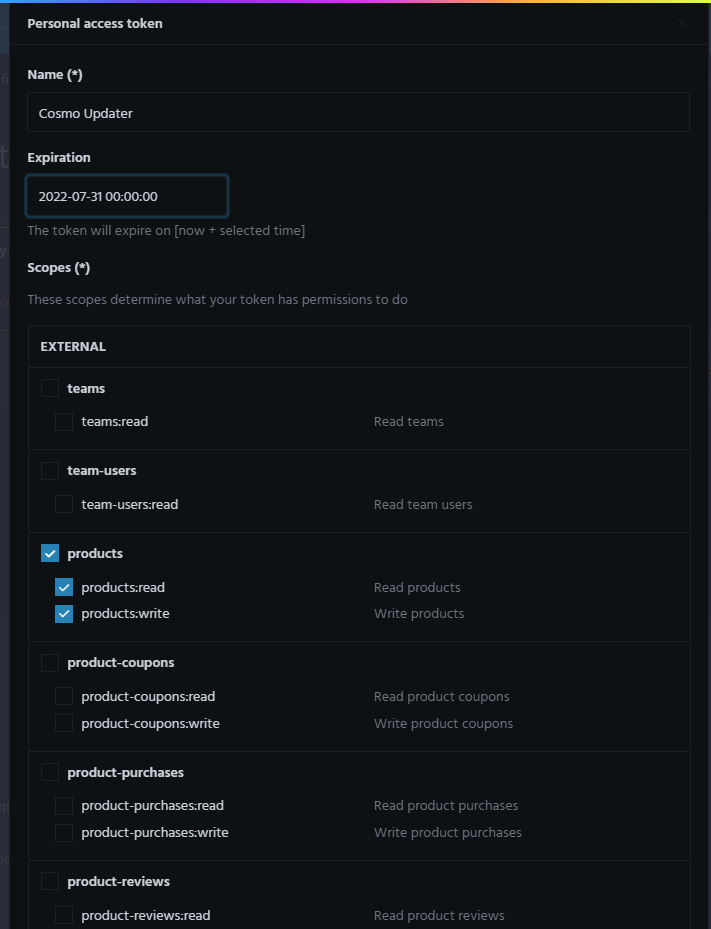
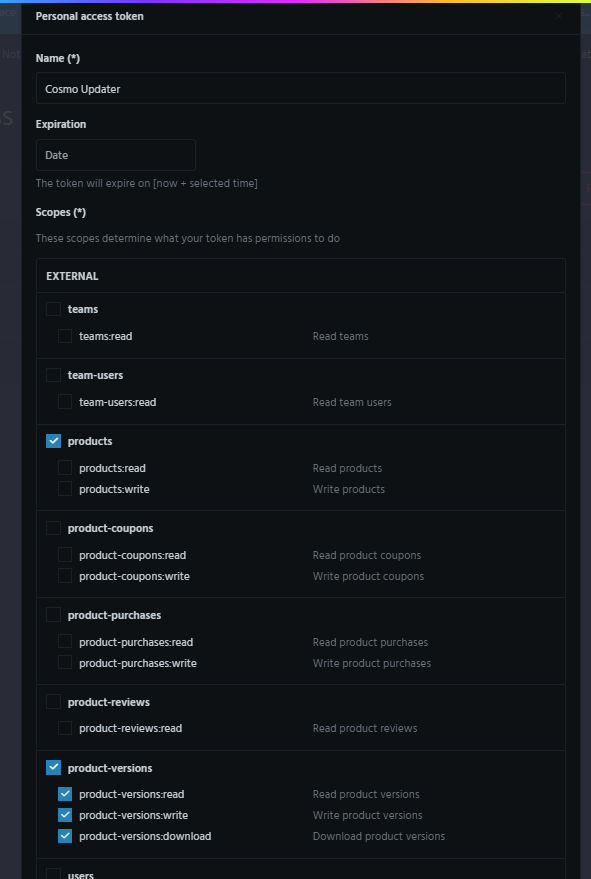
refactor: forgot some permissions

diff --git a/docs/faq-and-troubleshooting/updating.md b/docs/faq-and-troubleshooting/updating.md
@@ -16,7 +16,7 @@ We will need you to create an API key for Cosmo so we can download the addon and
 
 ![Image taken by lythium](../../static/img/updating/gms-accesstoken-create.png)
 
-3. Check the "Products" checkbox
+3. Check the "Products" and the "Product-Versions" checkbox
 4. Copy your access token provided to you
 
 ![Image taken by lythium](../../static/img/updating/gms-accesstoken-copy.png)
